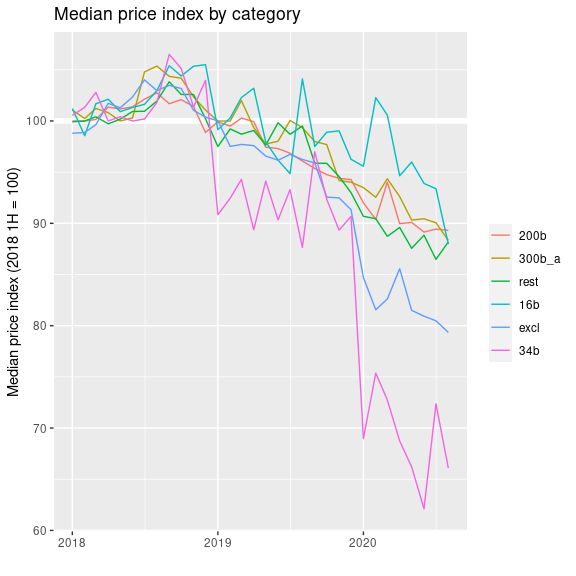
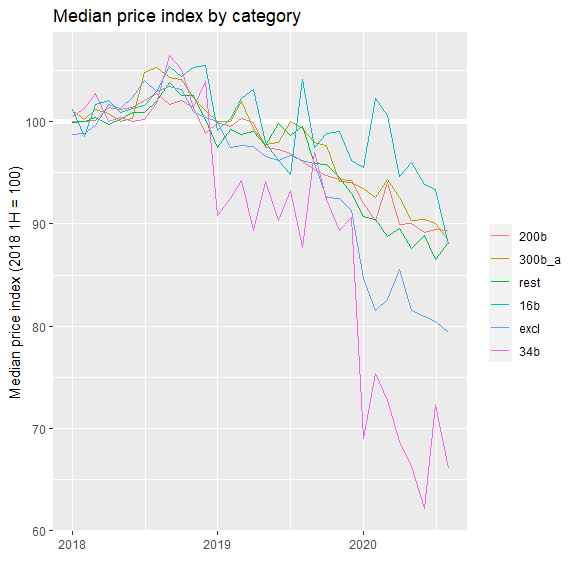
add correction by removing zero value and index

diff --git a/Who-pays.md b/Who-pays.md
@@ -13,8 +13,9 @@ Mitsuo Shiota
     100](#index-unit-price-of-the-first-half-of-2018-as-100)
   - [Look at the price changes from the first half of
     2018](#look-at-the-price-changes-from-the-first-half-of-2018)
+  - [Correction](#correction)
 
-Updated: 2020-10-07
+Updated: 2020-10-27
 
 ## Motivation and purpose
 
@@ -100,6 +101,97 @@ In the latest month, median price indices by category are as below.
 
 Chinese are paying 33.9 out of 25 percent in “34b”, 12 out of 25 in
 “16b”, 10.7 out of 25 in “200b”, and 11.7 out of 7.5 in “300b\_a” in
-the latest month. Sould I subtract 11.8 percent decline of “rest”?
+the latest month. Should I subtract 11.8 percent decline of “rest”?
+
+## Correction
+
+On October 26, 2020, I found price index movements above are not
+compatible with [US import price index: China, in
+total](https://fred.stlouisfed.org/series/CHNTOT). In 2020, every price
+index of tariff schedule category above shows rapid decline, while the
+total price index shows stabilization or even a bit of increase.
+
+Then I noticed there are a lot of zeroes in 2020 in the price index box
+plots above, especially those of “34b” and “excl”. Price index, which is
+value divided by quantity and is standardized, can’t be zero. It turned
+out there are 17967 zero indices.
+
+Where these zero indices come from? Small parts, 764, come from zero
+values. Most parts must come from standardization. It leads to my guess
+that unit is revised at the start of every year.
+
+``` r
+# zero indices in 2018
+df_m %>% 
+  filter(index == 0, time >= "2018-01-01", time < "2019-01-01") %>% 
+  nrow()
+```
+
+    ## [1] 314
+
+``` r
+# in 2019
+df_m %>% 
+  filter(index == 0, time >= "2019-01-01", time < "2020-01-01") %>% 
+  nrow()
+```
+
+    ## [1] 7346
+
+``` r
+# in 2020
+df_m %>% 
+  filter(index == 0, time >= "2020-01-01") %>% 
+  nrow()
+```
+
+    ## [1] 10307
+
+If unit is inconsistent over years, my method of calculation of price
+index is meaningless.
+
+Anyway, I remove zero value and zero index, and recalculate below.
+
+The number of HTS 10 digit code items by category are as below.
+
+    ## # A tibble: 6 x 2
+    ## # Groups:   category [6]
+    ##   category     n
+    ##   <fct>    <int>
+    ## 1 34b        889
+    ## 2 16b        314
+    ## 3 200b      5671
+    ## 4 300b_a    3557
+    ## 5 excl       336
+    ## 6 rest      1295
+
+Box plots.
+
+![](Who-pays_files/figure-gfm/boxplot2-1.png)<!-- -->
+
+Line charts.
+
+![](Who-pays_files/figure-gfm/line_chart2-1.png)<!-- -->
+
+In the latest month, median price indices by category are as below.
+
+    ## # A tibble: 6 x 3
+    ## # Groups:   category [6]
+    ##   category time       index
+    ##   <fct>    <date>     <dbl>
+    ## 1 34b      2020-08-01 104. 
+    ## 2 16b      2020-08-01  96.2
+    ## 3 200b     2020-08-01  94.4
+    ## 4 300b_a   2020-08-01  95.2
+    ## 5 excl     2020-08-01  94.1
+    ## 6 rest     2020-08-01  94.7
+
+Chinese are paying -4 out of 25 percent in “34b”, 3.8 out of 25 in
+“16b”, 5.6 out of 25 in “200b”, and 4.8 out of 7.5 in “300b\_a” in
+the latest month. Should I subtract 5.3 percent decline of “rest”?
+
+Looks less incompatible with [US import price index: China, in
+total](https://fred.stlouisfed.org/series/CHNTOT), though volatile “34b”
+suggests I had better cut off high indices at certain level.
 
 EOL
